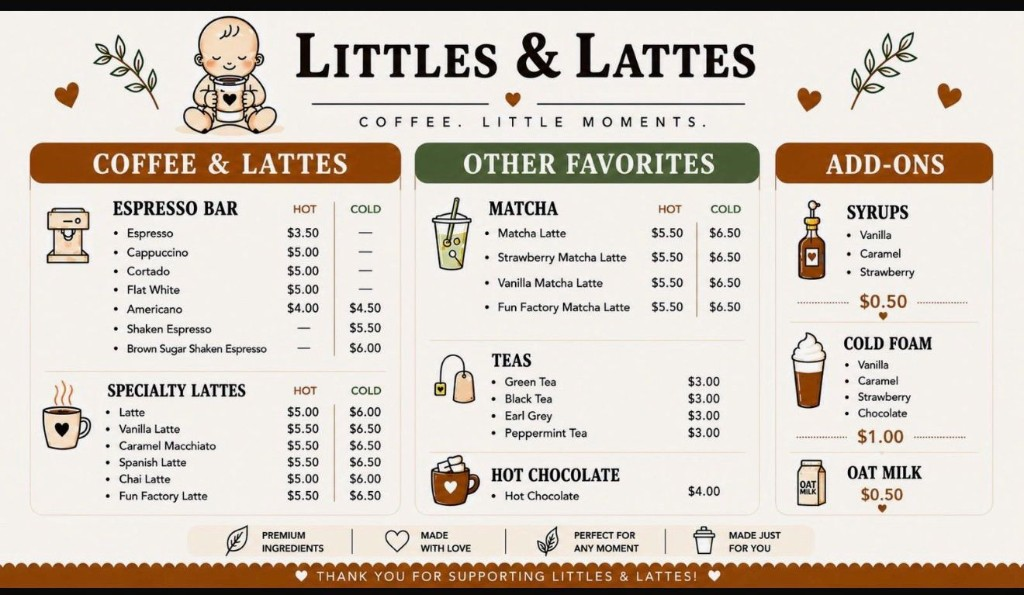
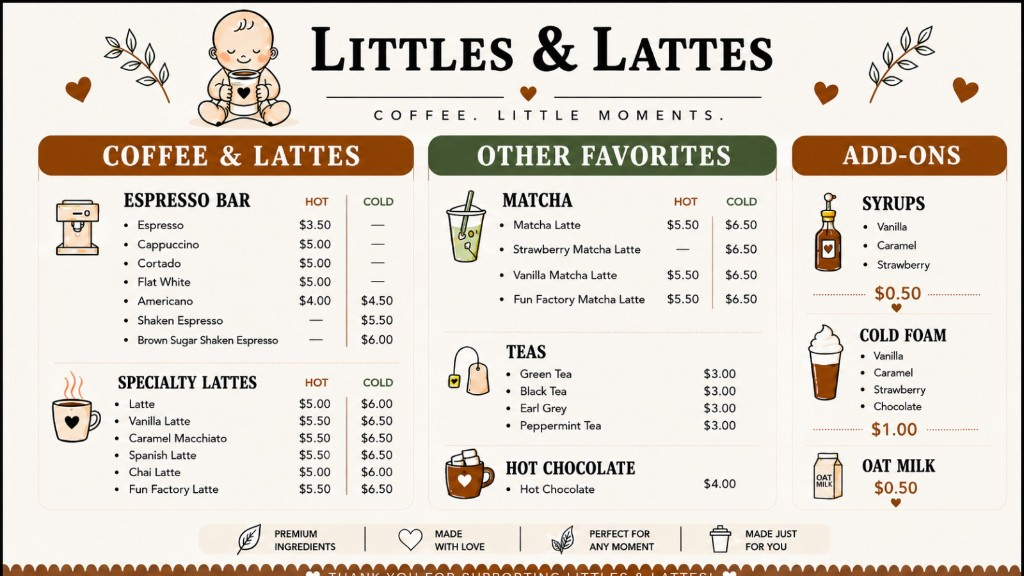
Update café menu board and make Strawberry Matcha iced only.
Replace the full menu image with the version without hot Strawberry Matcha pricing and show iced-only pricing on the drink card.

diff --git a/src/app/cafe/page.tsx b/src/app/cafe/page.tsx
@@ -75,7 +75,7 @@ export default function CafePage() {
         <div className="container-main">
           <SectionHeading
             title="Matcha"
-            subtitle="Made with real matcha — hot and iced available."
+            subtitle="Made with real matcha — most drinks available hot or iced. Strawberry Matcha is iced only."
             accent="mint"
           />
           <div className="mt-10 grid gap-5 sm:grid-cols-2 lg:grid-cols-4">

diff --git a/src/lib/site.ts b/src/lib/site.ts
@@ -398,7 +398,6 @@ export const cafeMenu = {
       description:
         "Sweet strawberry goodness paired with our signature strawberry cold foam matcha latte. Fruity, creamy, and oh-so-refreshing!",
       image: "/cafe/strawberry-matcha.png",
-      hotPrice: 5.5,
       coldPrice: 6.5,
     },
     {
